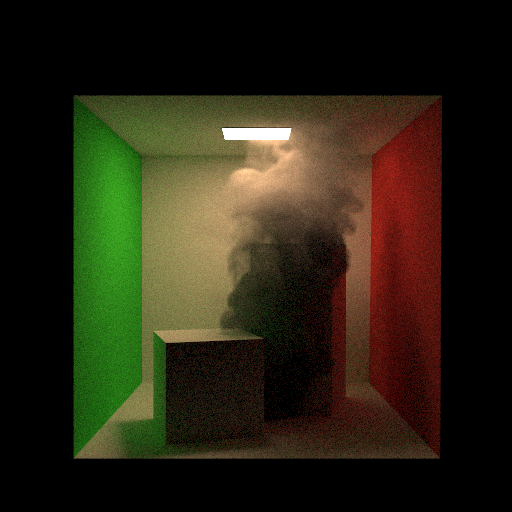
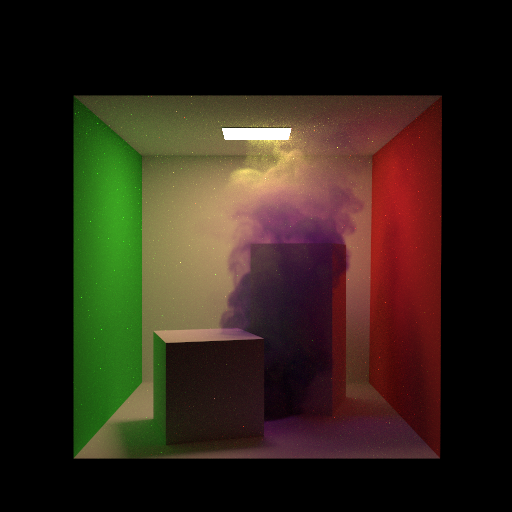
update readme

Changed region(s): [[0.3125, 0.1875, 0.875, 0.9062]]

diff --git a/tests/test_hetero.cpp b/tests/test_hetero.cpp
@@ -6,15 +6,15 @@
 int main() {
   const uint32_t width = 512;
   const uint32_t height = 512;
-  const uint32_t n_samples = 1;
-  const uint32_t max_depth = 10000;
+  const uint32_t n_samples = 1000;
+  const uint32_t max_depth = 100;
 
   Image image(width, height);
 
-  const Vec3f camera_pos = 1.5 * Vec3f(48, 24, 24);
-  const Vec3f camera_lookat = Vec3f(0, 12, 0);
-  // const Vec3f camera_pos = 30 * Vec3f(0, 1.5, 6);
-  // const Vec3f camera_lookat = 30 * Vec3f(0, 1.5, 0);
+  // const Vec3f camera_pos = 1.5 * Vec3f(48, 24, 24);
+  // const Vec3f camera_lookat = Vec3f(0, 12, 0);
+  const Vec3f camera_pos = 30 * Vec3f(0, 1.5, 6);
+  const Vec3f camera_lookat = 30 * Vec3f(0, 1.5, 0);
   const Vec3f camera_forward = normalize(camera_lookat - camera_pos);
   const float FOV = 0.25 * PI;
 
@@ -23,17 +23,16 @@ int main() {
 
   // build scene
   Scene scene;
-  scene.loadObj("smoke_test.obj");
-  scene.loadVDB("smoke2.vdb", 0, Vec3f(0.1f, 0.8f, 0.2f),
-                Vec3f(1.0f, 1.0f, 1.0f), 40.0f);
-
-  // scene.loadObj("cornellbox_smoke.obj");
-  // scene.loadVDB("smoke.vdb", 0, Vec3f(0.1f), Vec3f(1.0f), 5.0f);
+  // scene.loadObj("smoke_test.obj");
+  // scene.loadVDB("smoke2.vdb", 0, Vec3f(0.1f, 0.8f, 0.2f), Vec3f(1, 1, 1),
+  //               40.0f);
+  scene.loadObj("cornellbox_smoke.obj");
+  scene.loadVDB("smoke.vdb", 0, Vec3f(0.1f), Vec3f(2, 1, 5), 5.0f);
   scene.build();
 
   // render
   UniformSampler sampler;
-  PathTracing integrator(camera, n_samples, max_depth);
+  PathTracingNEE integrator(camera, n_samples, max_depth);
   // NormalIntegrator integrator(camera);
   integrator.render(scene, sampler, image);
 

diff --git a/tests/test_nee.cpp b/tests/test_nee.cpp
@@ -6,7 +6,7 @@
 int main() {
   const uint32_t width = 512;
   const uint32_t height = 512;
-  const uint32_t n_samples = 10000;
+  const uint32_t n_samples = 100;
   const uint32_t max_depth = 100;
 
   Image image(width, height);

diff --git a/README.md b/README.md
@@ -9,12 +9,13 @@ WIP.
 ## Features
 
 * Unidirectional path tracing
-* Path tracing with next event estimation
+* Next event estimation
 * Homogeneous medium
 * Heterogeneous medium
 * [Hero wavelength sampling](https://doi.org/10.1145/3306346.3323025) for chromatic absorption/scattering coefficient
 * [Artist friendly parameter](https://doi.org/10.1145/2897839.2927433) to controll absorption/scattering coefficient
 * Random walk subsurface scattering
+* Ratio tracking
 * Load obj model
 
 ## Requirements
@@ -60,14 +61,16 @@ make
 
 ### Colored smoke
 
-![](img/smoke_test4.png)
+![](img/smoke_test.png)
 
 ## References
 
 * [Physically Based Rendering:From Theory To Implementation, Matt Pharr, Wenzel Jakob, and Greg Humphreys](https://pbr-book.org/)
 * [Wilkie, Alexander, et al. "Hero wavelength spectral sampling." Computer Graphics Forum. Vol. 33. No. 4. 2014.](https://doi.org/10.1111/cgf.12419)
+* [Novák, Jan, Andrew Selle, and Wojciech Jarosz. "Residual ratio tracking for estimating attenuation in participating media." ACM Trans. Graph. 33.6 (2014): 179-1.](https://doi.org/10.1145/2661229.2661292)
 * [Chiang, Matt Jen-Yuan, Peter Kutz, and Brent Burley. "Practical and controllable subsurface scattering for production path tracing." ACM SIGGRAPH 2016 Talks (2016): 1-2.](https://doi.org/10.1145/2897839.2927433)
 * [Fong, Julian, et al. "Production volume rendering: Siggraph 2017 course." ACM SIGGRAPH 2017 Courses. 2017. 1-79.](https://doi.org/10.1145/3084873.3084907)
 * [Wrenninge, Magnus, Ryusuke Villemin, and Christophe Hery. Path traced subsurface scattering using anisotropic phase functions and non-exponential free flights. Tech. Rep. 17-07, Pixar. https://graphics. pixar. com/library/PathTracedSubsurface, 2017.](https://graphics.pixar.com/library/PathTracedSubsurface/paper.pdf)
 * [Novák, Jan, et al. "Monte Carlo methods for volumetric light transport simulation." Computer Graphics Forum. Vol. 37. No. 2. 2018.](https://doi.org/10.1111/cgf.13383)
 * [Miller, Bailey, Iliyan Georgiev, and Wojciech Jarosz. "A null-scattering path integral formulation of light transport." ACM Transactions on Graphics (TOG) 38.4 (2019): 1-13.](https://doi.org/10.1145/3306346.3323025)
+* [Georgiev, Iliyan, et al. "Integral formulations of volumetric transmittance." ACM Transactions on Graphics (TOG) 38.6 (2019): 1-17.](https://doi.org/10.1145/3355089.3356559)
